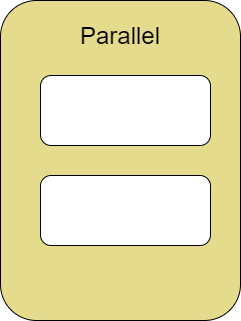
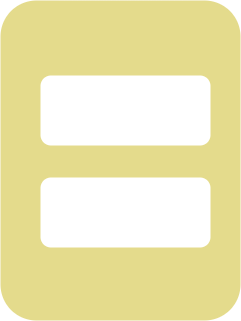
Update Parallel (remove line, text)

diff --git a/examples/com/mxgraph/examples/swing/editor/EditorPalette.java b/examples/com/mxgraph/examples/swing/editor/EditorPalette.java
@@ -270,13 +270,13 @@ public class EditorPalette extends JPanel
 		{
 			if (icon.getIconWidth() > 32 || icon.getIconHeight() > 32)
 			{
-				icon = new ImageIcon(icon.getImage().getScaledInstance(32, 32,
+				icon = new ImageIcon(icon.getImage().getScaledInstance(48, 64,
 						0));
 			}
 		}
 
 		final JLabel entry = new JLabel(icon);
-		entry.setPreferredSize(new Dimension(50, 50));
+		entry.setPreferredSize(new Dimension(60, 80));
 		entry.setBackground(EditorPalette.this.getBackground().brighter());
 		entry.setFont(new Font(entry.getFont().getFamily(), 0, 10));
 
@@ -386,7 +386,6 @@ public class EditorPalette extends JPanel
 	/**
 	 * @param eventName
 	 * @param listener
-	 * @see com.mxgraph.util.mxEventSource#removeListener(java.lang.String, com.mxgraph.util.mxEventSource.mxIEventListener)
 	 */
 	public void removeListener(mxIEventListener listener, String eventName)
 	{

diff --git a/examples/com/mxgraph/examples/swing/GraphEditor.java b/examples/com/mxgraph/examples/swing/GraphEditor.java
@@ -96,6 +96,14 @@ public class GraphEditor extends BasicGraphEditor
 
 		});
 
+		shapesPalette
+		.addTemplate(
+				"Parallel",
+				new ImageIcon(
+						GraphEditor.class
+								.getResource("/com/mxgraph/crayonscript/images/Parallel.png")),
+				"parallel", 120, 160, "Parallel");
+
 //		// Adds some template cells for dropping into the graph
 //		shapesPalette
 //				.addTemplate(
@@ -627,7 +635,6 @@ public class GraphEditor extends BasicGraphEditor
 		 * Overrides the method to use the currently selected edge template for
 		 * new edges.
 		 * 
-		 * @param graph
 		 * @param parent
 		 * @param id
 		 * @param value
